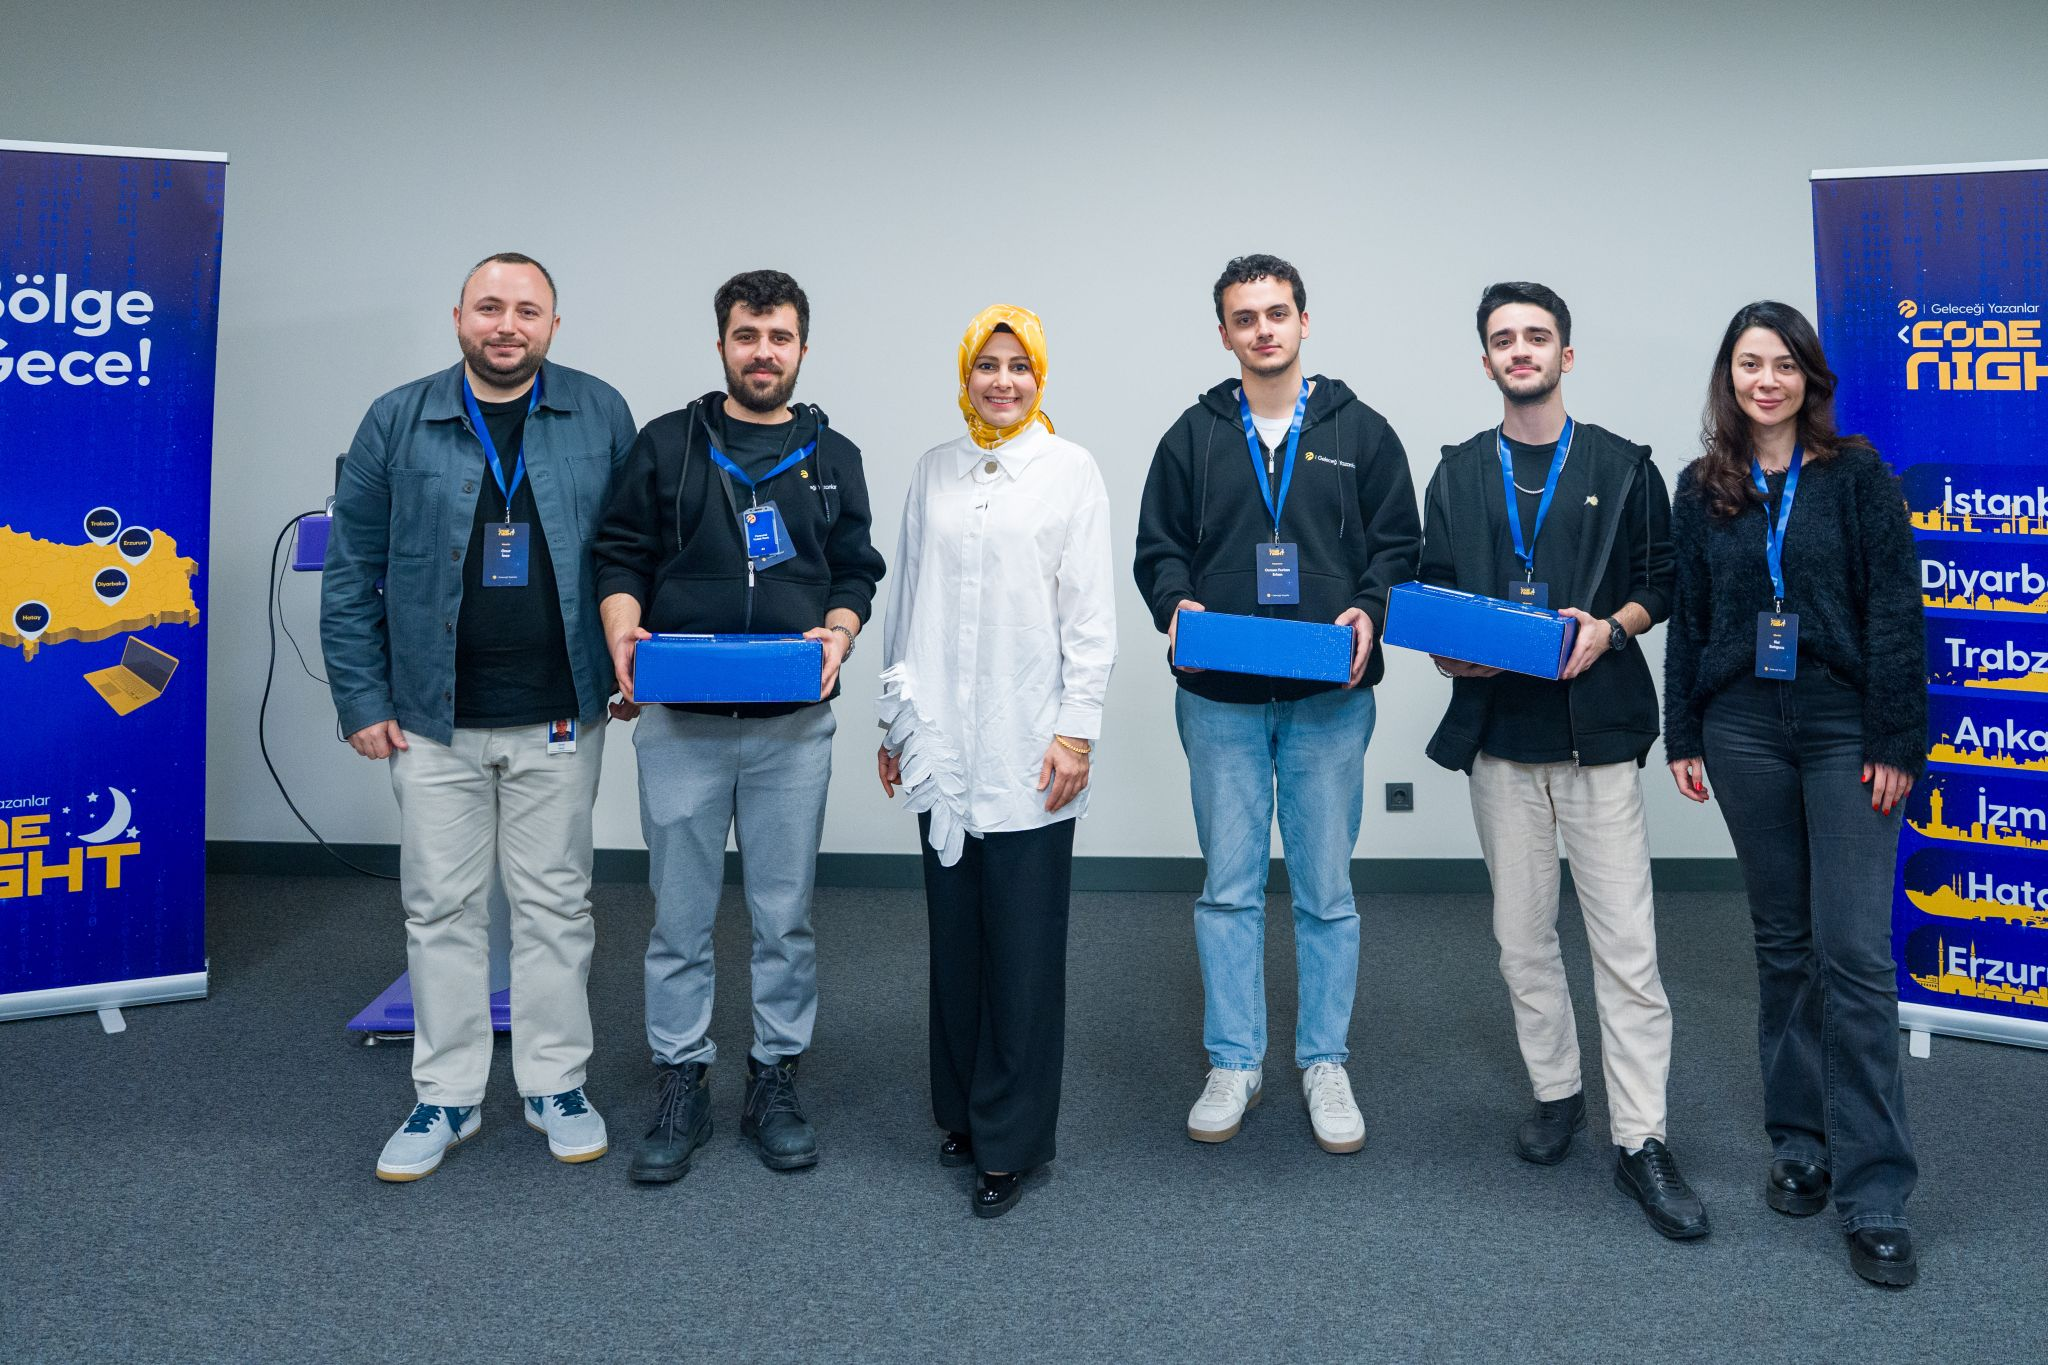
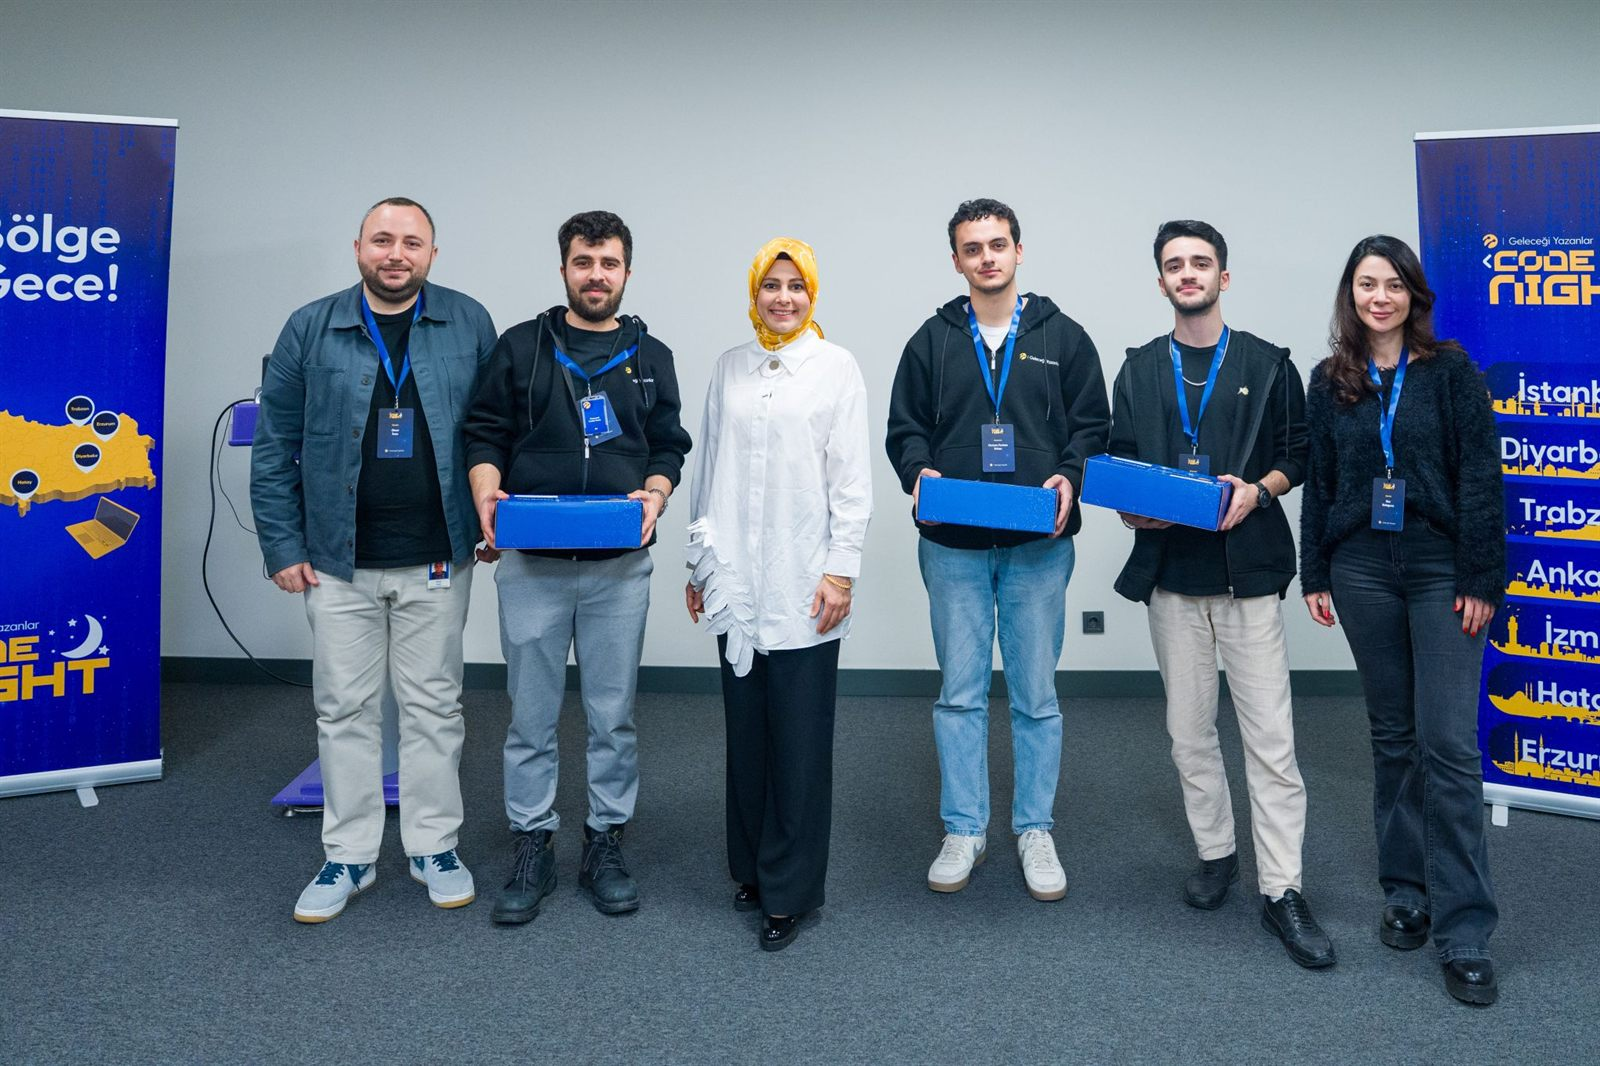
feat: KAPSUL Yaz Okulu gelismesini ekle; gorselleri sikistir
- KAPSUL Yaz Okulu (Savunma Sanayii Akademi) gelismesi TR/EN olarak
  vitrinin basina eklendi; Aegean Career Summit kaydi cikarildi
- allstar.jpg 29.8 MB -> 180 KB (8192px -> 1600px); soylesi, turkcell2
  ve roketsan1 gorselleri de 1600px/q82 olarak yeniden kodlandi
- Sayfanin cektigi toplam gorsel agirligi ~31 MB -> 2.3 MB
- Slayt gorselleri artik requestIdleCallback ile onden yukleniyor

diff --git a/index.html b/index.html
@@ -403,19 +403,19 @@
         <div class="rounded-3xl overflow-hidden grid grid-cols-1 md:grid-cols-2 h-auto md:h-[460px] border backdrop-blur-xl
                     bg-white/70 border-slate-300 dark:bg-white/[0.04] dark:border-slate-800">
           <div class="relative h-72 sm:h-80 md:h-full bg-slate-200 dark:bg-slate-900">
-            <img id="dispImg" src="./allstar.jpg" alt="Gelişme görseli"
+            <img id="dispImg" src="./kapsul.jpg" alt="Gelişme görseli" decoding="async"
                  onerror="this.src='https://images.unsplash.com/photo-1517694712202-14dd9538aa97?w=600&auto=format&fit=crop&q=80'"
                  class="fade-swap absolute inset-0 h-full w-full object-cover object-center" />
           </div>
           <div class="p-7 md:p-9 flex flex-col justify-center">
-            <span id="dispTag" class="fade-swap font-mono text-xs text-accent tracking-wider">2026-07 · HACKATHON / FİNAL</span>
+            <span id="dispTag" class="fade-swap font-mono text-xs text-accent tracking-wider">2026-08 · YAZ OKULU</span>
             <h3 id="dispTitle" class="fade-swap font-display text-2xl md:text-3xl font-bold mt-3 leading-snug">
-              Turkcell Code Night All-Star Finali
+              KAPSÜL Yaz Okulu
             </h3>
             <p id="dispDesc" class="fade-swap mt-3 text-slate-600 dark:text-slate-400 leading-relaxed">
-              İzmir etabındaki 2.'lik derecemizin ardından Mehmet Ali Sevdinoğlu ve İskender Guliyev
-              ile birlikte Turkcell Geleceği Yazanlar Code Night All-Star 2026 finalinde yer aldık;
-              kısıtlı sürede gerçek bir iş problemine çözüm ürettiğimiz uykusuz bir vaka maratonuydu.
+              Savunma Sanayii Akademi'nin düzenlediği KAPSÜL Yaz Okulu'nu Cumhurbaşkanlığı Millet
+              Kütüphanesi'nde başarıyla tamamladım; sektörün öncü isimlerinden savunma sanayimizin
+              dinamiklerini ve stratejik vizyonunu dinlediğim ufuk açıcı bir deneyimdi.
             </p>
           </div>
         </div>
@@ -1007,10 +1007,10 @@
     (function () {
       var FALLBACK = 'https://images.unsplash.com/photo-1517694712202-14dd9538aa97?w=600&auto=format&fit=crop&q=80';
       var data = [
-        { img: './allstar.jpg',       tag: '2026-07 · HACKATHON / FİNAL', tag_en: '2026-07 · HACKATHON / FINAL', title: 'Turkcell Code Night All-Star Finali', title_en: 'Turkcell Code Night All-Star Final', desc: "Turkcell Code Night'ın İzmir etabındaki 2.'lik derecemizin ardından, ekip arkadaşlarım Mehmet Ali Sevdinoğlu ve İskender Guliyev ile Turkcell Geleceği Yazanlar Code Night All-Star 2026 finalinde yer aldık. Türkiye'nin farklı şehirlerinde dereceye giren ekiplerin buluştuğu organizasyonda, kısıtlı sürede gerçek bir iş problemine çözüm üretmeye çalıştığımız uykusuz bir vaka maratonunu geride bıraktık; yeni teknik yaklaşımlar denediğimiz ve zaman kısıtı altında takım olarak çalıştığımız bu final, vizyonumuzu genişleten kıymetli bir deneyim oldu.", desc_en: "Following our 2nd place finish at the Turkcell Code Night İzmir stage, I had the opportunity to compete in the Code Night All-Star 2026 final alongside my teammates Mehmet Ali Sevdinoğlu and İskender Guliyev. Competing alongside top teams from across Turkey, trying to solve a real business problem in a limited time and completing a sleepless case marathon was a highly instructive process — a final where we tested new technical approaches and experienced teamwork under time constraints, broadening our vision." },
+        { img: './kapsul.jpg',        tag: '2026-08 · YAZ OKULU',        tag_en: '2026-08 · SUMMER SCHOOL',   title: 'KAPSÜL Yaz Okulu', title_en: 'KAPSÜL Summer School', desc: "Savunma Sanayii Akademi'nin düzenlediği KAPSÜL Yaz Okulu'nu Cumhurbaşkanlığı Millet Kütüphanesi'nde başarıyla tamamlamanın gururunu yaşıyorum. Sektörün öncü isimlerinden savunma sanayimizin dinamiklerini ve stratejik vizyonunu dinlemek, bir bilgisayar mühendisi adayı olarak benim için oldukça ufuk açıcı bir deneyimdi. Milli teknolojilerimizi geliştirme yolunda bana kattığı bu değerli vizyon için Savunma Sanayii Başkanlığı'na ve emeği geçen tüm eğitmenlerimize teşekkür ederim.", desc_en: "I am proud to have successfully completed the KAPSÜL Summer School organized by the Defense Industry Academy at the Presidential Nation Library. Listening to the dynamics and strategic vision of our defense industry from leading experts in the sector was an eye-opening experience for me as a computer engineering candidate. I would like to thank the Presidency of Defense Industries and all our instructors for providing this valuable vision on the path to developing our national technologies." },
+        { img: './allstar.jpg',     tag: '2026-07 · HACKATHON / FİNAL', tag_en: '2026-07 · HACKATHON / FINAL', title: 'Turkcell Code Night All-Star Finali', title_en: 'Turkcell Code Night All-Star Final', desc: "Turkcell Code Night'ın İzmir etabındaki 2.'lik derecemizin ardından, ekip arkadaşlarım Mehmet Ali Sevdinoğlu ve İskender Guliyev ile Turkcell Geleceği Yazanlar Code Night All-Star 2026 finalinde yer aldık. Türkiye'nin farklı şehirlerinde dereceye giren ekiplerin buluştuğu organizasyonda, kısıtlı sürede gerçek bir iş problemine çözüm üretmeye çalıştığımız uykusuz bir vaka maratonunu geride bıraktık; yeni teknik yaklaşımlar denediğimiz ve zaman kısıtı altında takım olarak çalıştığımız bu final, vizyonumuzu genişleten kıymetli bir deneyim oldu.", desc_en: "Following our 2nd place finish at the Turkcell Code Night İzmir stage, I had the opportunity to compete in the Code Night All-Star 2026 final alongside my teammates Mehmet Ali Sevdinoğlu and İskender Guliyev. Competing alongside top teams from across Turkey, trying to solve a real business problem in a limited time and completing a sleepless case marathon was a highly instructive process — a final where we tested new technical approaches and experienced teamwork under time constraints, broadening our vision." },
         { img: './sertifika.png',      tag: '2026-06 · SERTİFİKA / EĞİTİM', tag_en: '2026-06 · CERTIFICATE / COURSE', title: 'Veri Bilimi & Makine Öğrenmesi Kampı', title_en: 'Data Science & ML Bootcamp', desc: "Atıl Samancıoğlu'nun 61,5 saatlik Veri Bilimi & Makine Öğrenmesi kampını tamamladım (Python, istatistik, EDA, feature engineering, denetimli/denetimsiz öğrenme, XGBoost). Üstüne bitirme projemi geliştirdim: NASA C-MAPSS turbofan motorlarının kalan ömrünü tahmin eden, canlıya alınmış uçtan uca bir ML uygulaması.", desc_en: "I completed Atıl Samancıoğlu's 61.5-hour Data Science & Machine Learning bootcamp (Python, statistics, EDA, feature engineering, supervised/unsupervised learning, XGBoost). On top of it I built my capstone: a deployed end-to-end ML app predicting the Remaining Useful Life of NASA C-MAPSS turbofan engines." },
         { img: './roketsan.jpg',       tag: '2026-05 · ZİRVE',             tag_en: '2026-05 · SUMMIT',           title: 'ROKETSAN Gençlik Buluşması',        title_en: 'ROKETSAN Youth Meetup',              desc: "19 Mayıs Atatürk'ü Anma, Gençlik ve Spor Bayramı coşkusunu ROKETSAN ev sahipliğinde düzenlenen zirvede, savunma sanayimizin kalbinde deneyimledim.", desc_en: "I experienced the spirit of the May 19th Commemoration of Atatürk, Youth and Sports Day at a summit hosted by ROKETSAN, in the heart of our defense industry." },
-        { img: './aegan.jpg',          tag: '2026-05 · ZİRVE',             tag_en: '2026-05 · SUMMIT',           title: 'Aegean Career Summit',              title_en: 'Aegean Career Summit',               desc: "İzQ Girişimcilik Merkezi'nde düzenlenen zirvede önde gelen profesyonellerin kariyer yolculuklarını dinleyip sektörel içgörüler edindim.", desc_en: "At the summit held at the İzQ Entrepreneurship Center, I listened to the career journeys of leading professionals and gained sectoral insights." },
         { img: './ıhlamur.jpg',        tag: '2026-05 · ORGANİZASYON',      tag_en: '2026-05 · ORGANIZATION',     title: 'EBMT Söyleşi: Murat Ihlamur',       title_en: 'EBMT Talk: Murat Ihlamur',           desc: "Kurucu Bşk. Yrd. olduğum EBMT ev sahipliğinde Netsis kurucusu Murat Ihlamur ile yazılım girişimciliği ve startup ekosistemini masaya yatırdık.", desc_en: "Hosted by EBMT, where I am Founding Vice President, we explored software entrepreneurship and the startup ecosystem with Netsis founder Murat Ihlamur." },
         { img: './söyleşi.jpg',        tag: '2026-05 · ORGANİZASYON',      tag_en: '2026-05 · ORGANIZATION',     title: 'EBMT Söyleşi: Yapay Zeka & Toplum', title_en: 'EBMT Talk: AI & Society',             desc: "Prof. Dr. Oğuz Dikenelli ve Yük. Müh. İlker Kalaycı katılımıyla yapay zekanın toplumsal etkilerini incelediğimiz söyleşiyi koordine ettim.", desc_en: "I coordinated a talk examining the societal impacts of artificial intelligence, featuring Prof. Dr. Oğuz Dikenelli and M.Sc. Eng. İlker Kalaycı." },
         { img: './microsoft.jpg',      tag: '2026-04 · STAJ / KABUL',      tag_en: '2026-04 · INTERNSHIP / OFFER', title: 'Microsoft AI Yaz Stajı Kabulü',   title_en: 'Microsoft AI Summer Internship Offer', desc: "Microsoft Türkiye bünyesinde gerçekleşecek olan Microsoft AI Innovators Summer Internship Programı'na seçilmeye hak kazandım.", desc_en: "I was selected for the Microsoft AI Innovators Summer Internship Program to be held at Microsoft Türkiye." },
@@ -1058,6 +1058,13 @@
         title.textContent = en ? d.title_en : d.title;
         desc.textContent = en ? d.desc_en : d.desc;
       };
+      // Slayt görsellerini tarayıcı boştayken önden yükle → geçişlerde bekleme olmasın
+      function preloadSlides() {
+        data.forEach(function (d) { var im = new Image(); im.src = d.img; });
+      }
+      if (window.requestIdleCallback) requestIdleCallback(preloadSlides, { timeout: 3000 });
+      else setTimeout(preloadSlides, 1500);
+
       setBtn(0); restart();
       window.__refreshDispatch(); // ilk slaytı mevcut dile göre çiz
     })();
